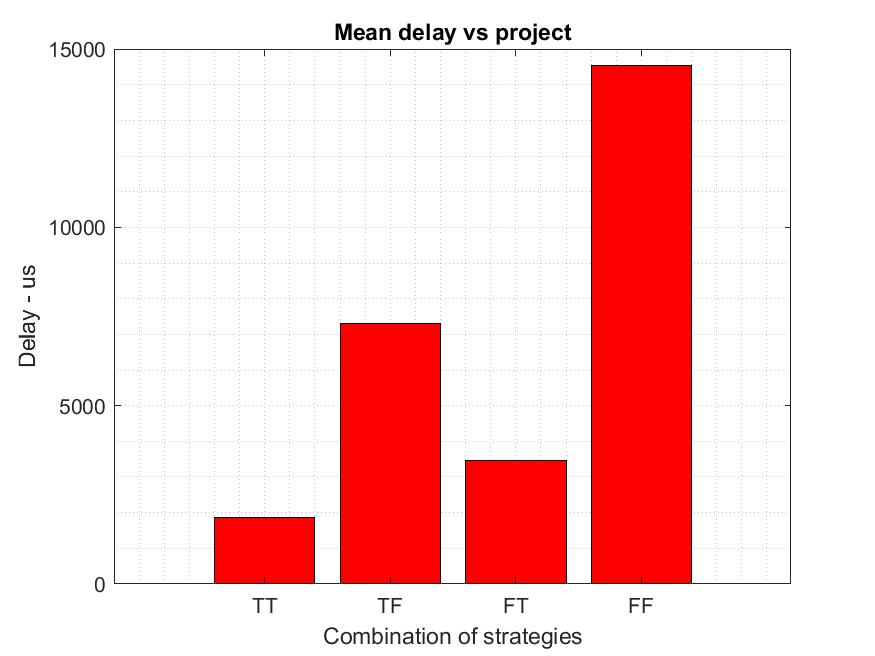
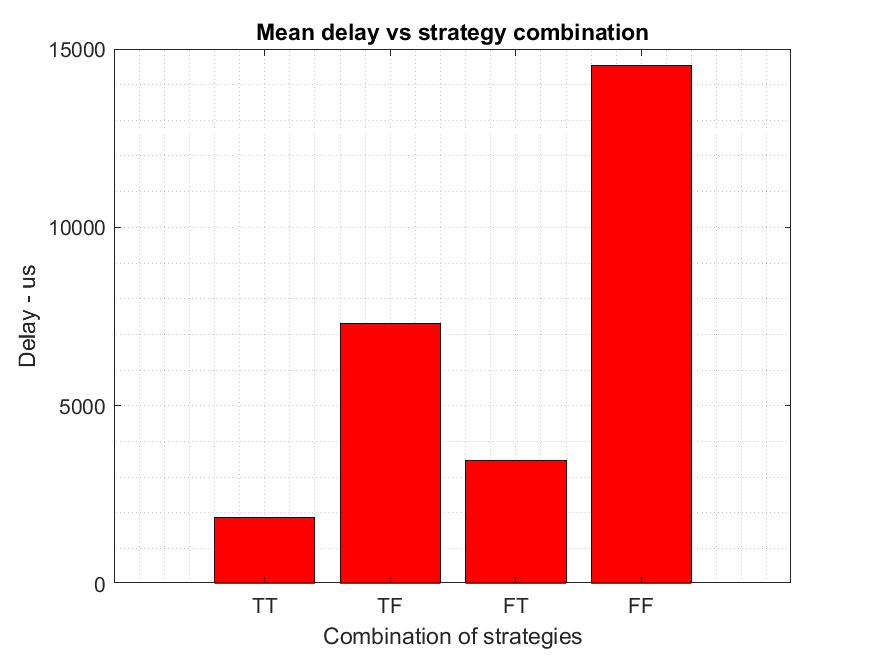
update of various files

Changed region(s): [[0.2777, 0.0305, 0.7406, 0.061], [0.648, 0.8841, 0.6789, 0.9146], [0.3394, 0.8841, 0.3703, 0.9146]]

diff --git a/results/results_compare.m b/results/results_compare.m
@@ -429,19 +429,22 @@ saveas(fig3, "Mean packet loss vs # of vehicles.jpg");
 % save('pl3-TTFF.mat', 'pl3');
 % save('pl4-TTFF.mat', 'pl4');
 
-TTFFthr = [mean(thr) mean(thr2) mean(thr3) mean(thr4)];
-TTFFdelay = [mean(delay) mean(delay2) mean(delay3) mean(delay4)];
-TTFFpl = [mean(pl) mean(pl2) mean(pl3) mean(pl4)];
-save('TTFFthr.mat', 'TTFFthr');
-save('TTFFdelay.mat', 'TTFFdelay');
-save('TTFFpl.mat', 'TTFFpl');
+% TTFFthr = [mean(thr) mean(thr2) mean(thr3) mean(thr4)];
+% TTFFdelay = [mean(delay) mean(delay2) mean(delay3) mean(delay4)];
+% TTFFpl = [mean(pl) mean(pl2) mean(pl3) mean(pl4)];
+% save('TTFFthr.mat', 'TTFFthr');
+% save('TTFFdelay.mat', 'TTFFdelay');
+% save('TTFFpl.mat', 'TTFFpl');
+load('TTFFthr.mat');
+load('TTFFdelay.mat');
+load('TTFFpl.mat');
 
 x = ['TT'; 'TF'; 'FT'; 'FF'];
 
 fig = figure;
 bar(TTFFthr);
 set(gca,'xticklabel', x);
-title('Mean throughput vs project');
+title('Mean throughput vs strategy combination');
 ylabel('Throughput - Mbps'); 
 xlabel('Combination of strategies'); 
 grid minor;
@@ -450,7 +453,7 @@ saveas(fig, "Mean throughput vs project.jpg");
 fig2 = figure;
 bar(TTFFdelay, 'r');
 set(gca,'xticklabel', x);
-title('Mean delay vs project');
+title('Mean delay vs strategy combination');
 ylabel('Delay - us'); 
 xlabel('Combination of strategies'); 
 grid minor;
@@ -459,7 +462,7 @@ saveas(fig2, "Mean delay vs project.jpg");
 fig3 = figure;
 bar(TTFFpl, 'g');
 set(gca,'xticklabel', x);
-title('Mean packet loss vs project');
+title('Mean packet loss vs strategy combination');
 ylabel('Packet loss - Rate'); 
 xlabel('Combination of strategies'); 
 xTicks = ["TT"; "TF"; "FT"; "FF"];
@@ -468,27 +471,56 @@ saveas(fig3, "Mean packet loss vs project.jpg");
 
 %% PLOTS FOR THR AGGRESSIVENESS
 
-save('thr-TH.mat', 'thr');
-save('thr2-TH.mat', 'thr2');
-save('thr3-TH.mat', 'thr3');
-save('delay-TH.mat', 'delay');
-save('delay2-TH.mat', 'delay2');
-save('delay3-TH.mat', 'delay3');
-save('pl-TH.mat', 'pl');
-save('pl2-TH.mat', 'pl2');
-save('pl3-TH.mat', 'pl3');
+% save('thr-TH.mat', 'thr');
+% save('thr2-TH.mat', 'thr2');
+% save('thr3-TH.mat', 'thr3');
+% save('delay-TH.mat', 'delay');
+% save('delay2-TH.mat', 'delay2');
+% save('delay3-TH.mat', 'delay3');
+% save('pl-TH.mat', 'pl');
+% save('pl2-TH.mat', 'pl2');
+% save('pl3-TH.mat', 'pl3');
 
+load('thr-TH.mat');
+load('thr2-TH.mat');
+load('thr3-TH.mat');
+load('delay-TH.mat');
+load('delay2-TH.mat');
+load('delay3-TH.mat');
+load('pl-TH.mat');
+load('pl2-TH.mat');
+load('pl3-TH.mat');
+load('thr4-TTFF.mat');
+load('delay4-TTFF.mat');
+load('pl4-TTFF.mat');
+%%
+
+thr = thr(11:size(thr, 1));
+thr2 = thr2(11:size(thr2, 1));
+thr3 = thr3(11:size(thr3, 1));
+thr4 = thr4(11:size(thr4, 1));
+delay = delay(11:size(delay, 1))/1000;
+delay2 = delay2(11:size(delay2, 1))/1000;
+delay3 = delay3(11:size(delay3, 1))/1000;
+delay4 = delay4(11:size(delay4, 1))/1000;
+pl = pl(11:size(pl, 1));
+pl2 = pl2(11:size(pl2, 1));
+pl3 = pl3(11:size(pl3, 1));
+pl4 = pl4(11:size(pl4, 1));
+time = time(11:size(time, 1));
+%%
 %plots and image savings
 fig = figure;
 plot(time(:, 1), thr);
 hold on;
 plot(time(:, 1), thr2, 'r');
 plot(time(:, 1), thr3, 'g');
+plot(time(:, 1), thr4, 'k');
 title('Mean throughput vs aggressiveness');
 ylabel('Throughput - Mbps'); 
 xlabel('Time - s'); 
 grid on;
-legend({'Standard', 'Aggressive', 'Weak'}, 'Location', "South", 'NumColumns', 2);
+legend({'Standard', 'Aggressive', 'Weak', 'Baseline'}, 'Location', "South", 'NumColumns', 2);
 saveas(fig, "Compare throughput vs aggressiveness on threshold.jpg");
 
 fig2 = figure;
@@ -496,11 +528,12 @@ plot(time(:, 1), delay);
 hold on;
 plot(time(:, 1), delay2, 'r');
 plot(time(:, 1), delay3, 'g');
+plot(time(:, 1), delay4, 'k');
 title('Mean delay vs aggressiveness');
-ylabel('Delay - us'); 
+ylabel('Delay - ms'); 
 xlabel('Time - s'); 
 grid on;
-legend({'Standard', 'Aggressive', 'Weak'}, 'Location', "South", 'NumColumns', 2);
+legend({'Standard', 'Aggressive', 'Weak', 'Baseline'}, 'Location', "NorthEast", 'NumColumns', 2);
 saveas(fig2, "Compare delay vs aggressiveness on threshold.jpg");
 
 fig3 = figure;
@@ -508,10 +541,11 @@ plot(time(:, 1), pl);
 hold on;
 plot(time(:, 1), pl2, 'r');
 plot(time(:, 1), pl3, 'g');
+plot(time(:, 1), pl4, 'k');
 title('Mean packet loss vs aggressiveness');
 ylabel('Packet loss - rate'); 
 xlabel('Time - s'); 
 grid on;
-legend({'Standard', 'Aggressive', 'Weak'}, 'Location', "NorthEast", 'NumColumns', 2);
+legend({'Standard', 'Aggressive', 'Weak', 'Baseline'}, 'Location', "NorthEast", 'NumColumns', 2);
 saveas(fig3, "Compare packet loss vs aggressiveness on threshold.jpg");
 

diff --git a/results/results_plot.m b/results/results_plot.m
@@ -2,7 +2,7 @@
 clearvars;
 clc; 
 
-filename = "50-50-pr";
+filename = "100veh-false-false";
 
 %reading csv file and taking the time intervals involved
 m = readtable(filename + '.csv');
@@ -11,14 +11,14 @@ interval = table2array(unique(m(:,15)));
 
 %% calculation on all vehicles
 %arrays for thr calculation - mean and variance
-thr = zeros(size(time, 1), 1);
+thr4 = zeros(size(time, 1), 1);
 thr_var = zeros(size(time, 1), 1);
 thr_s = zeros(1, 1);
 %arrays for mean delay calculation
-delay = zeros(size(time, 1), 1);
+delay4 = zeros(size(time, 1), 1);
 delay_s = zeros(1, 1);
 %arrays for mean packet loss calculation
-pl = zeros(size(time, 1), 1);
+pl4 = zeros(size(time, 1), 1);
 pl_s = zeros(1, 1);
 
 first = true;   
@@ -44,10 +44,10 @@ for i=1:size(time, 1)
         end
     end
     %calculating stats per time instant
-    thr(i, 1) = mean(thr_s);
+    thr4(i, 1) = mean(thr_s);
     thr_var(i, 1) = var(thr_s);
-    delay(i, 1) = mean(delay_s);
-    pl(i, 1) = mean(pl_s);
+    delay4(i, 1) = mean(delay_s);
+    pl4(i, 1) = mean(pl_s);
     
     %zeroing temporary arrays for further analysis
     thr_s = zeros(1, 1);
@@ -55,9 +55,15 @@ for i=1:size(time, 1)
     pl_s = zeros(1, 1);
 end
 
+save('thr4-TTFF.mat', 'thr4');
+save('delay4-TTFF.mat', 'delay4');
+save('pl4-TTFF.mat', 'pl4');
+
+%%
+
 %plots and image savings
 fig = figure;
-errorbar(time(:, 1), thr, thr_var);
+errorbar(time(:, 1), thr4, thr_var);
 title('Throughput vs time (variance of thr displayed)');
 ylabel('Throughput (with variance) - Mbps'); 
 xlabel('Time - s'); 
@@ -65,7 +71,7 @@ grid on;
 saveas(fig, "Mean throughput per time " + filename + ".jpg");
 
 fig2 = figure;
-plot(time(:, 1), delay, 'r');
+plot(time(:, 1), delay4, 'r');
 title('Delay vs time');
 ylabel('Delay - us'); 
 xlabel('Time - s'); 
@@ -73,7 +79,7 @@ grid on;
 saveas(fig2, "Mean delay per time " + filename + ".jpg");
 
 fig3 = figure;
-plot(time(:, 1), pl, 'g');
+plot(time(:, 1), pl4, 'g');
 title('Packet loss vs time');
 ylabel('Packet loss - rate'); 
 xlabel('Time - s'); 
@@ -108,9 +114,9 @@ legend('Throughput', 'Rerouting');
 saveas(fig4, "Throughput vehicle " + veh_id + " per time " + filename + ".jpg");
 
 %% application rate variating
-thr = zeros(size(interval, 1), 1);
+thr4 = zeros(size(interval, 1), 1);
 thr_s = zeros(1, 1);
-pl = zeros(size(interval, 1), 1);
+pl4 = zeros(size(interval, 1), 1);
 pl_s = zeros(1, 1);
 
 first = true;   
@@ -134,8 +140,8 @@ for i=1:size(interval, 1)
         end
     end
     %calculating stats per app rate
-    thr(i, 1) = mean(thr_s);
-    pl(i, 1) = mean(pl_s);
+    thr4(i, 1) = mean(thr_s);
+    pl4(i, 1) = mean(pl_s);
     
     %zeroing temporary arrays for further analysis
     thr_s = zeros(1, 1);
@@ -148,7 +154,7 @@ for i=1:size(interval, 1)
 end
 
 fig5 = figure;
-plot(n_pckts(:, 1), thr);
+plot(n_pckts(:, 1), thr4);
 title('Mean throughput vs app rate');
 ylabel('Throughput - Mbps'); 
 xlabel('App rate - Packets per second'); 
@@ -156,7 +162,7 @@ grid on;
 saveas(fig5, "Mean throughput per app rate " + filename + ".jpg");
 
 fig6 = figure;
-plot(n_pckts(:, 1), pl, 'r');
+plot(n_pckts(:, 1), pl4, 'r');
 title('Mean packet loss vs app rate');
 ylabel('Packet loss - Rate'); 
 xlabel('App rate - Packets per second'); 
